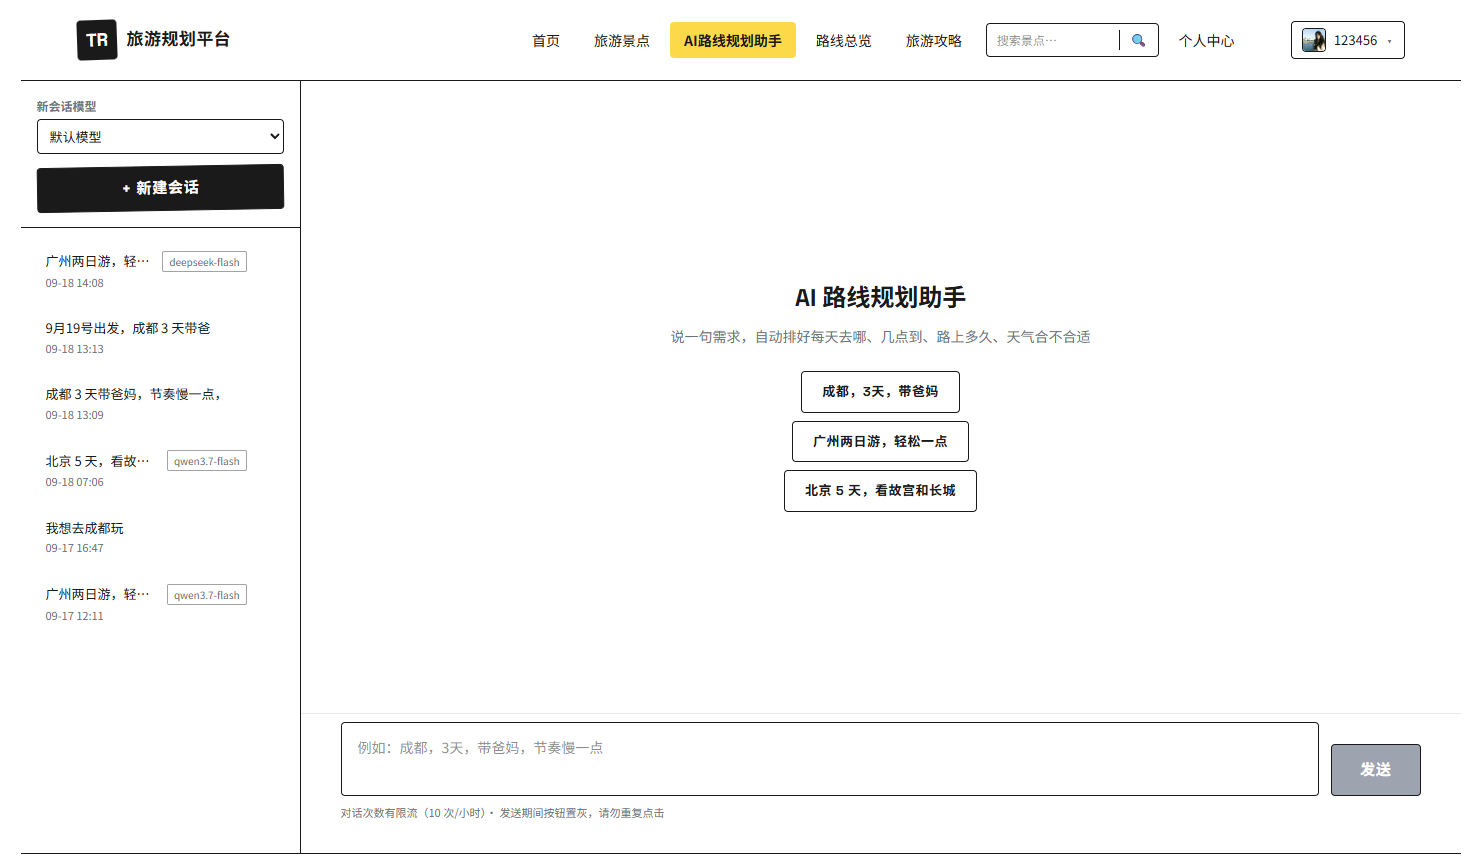
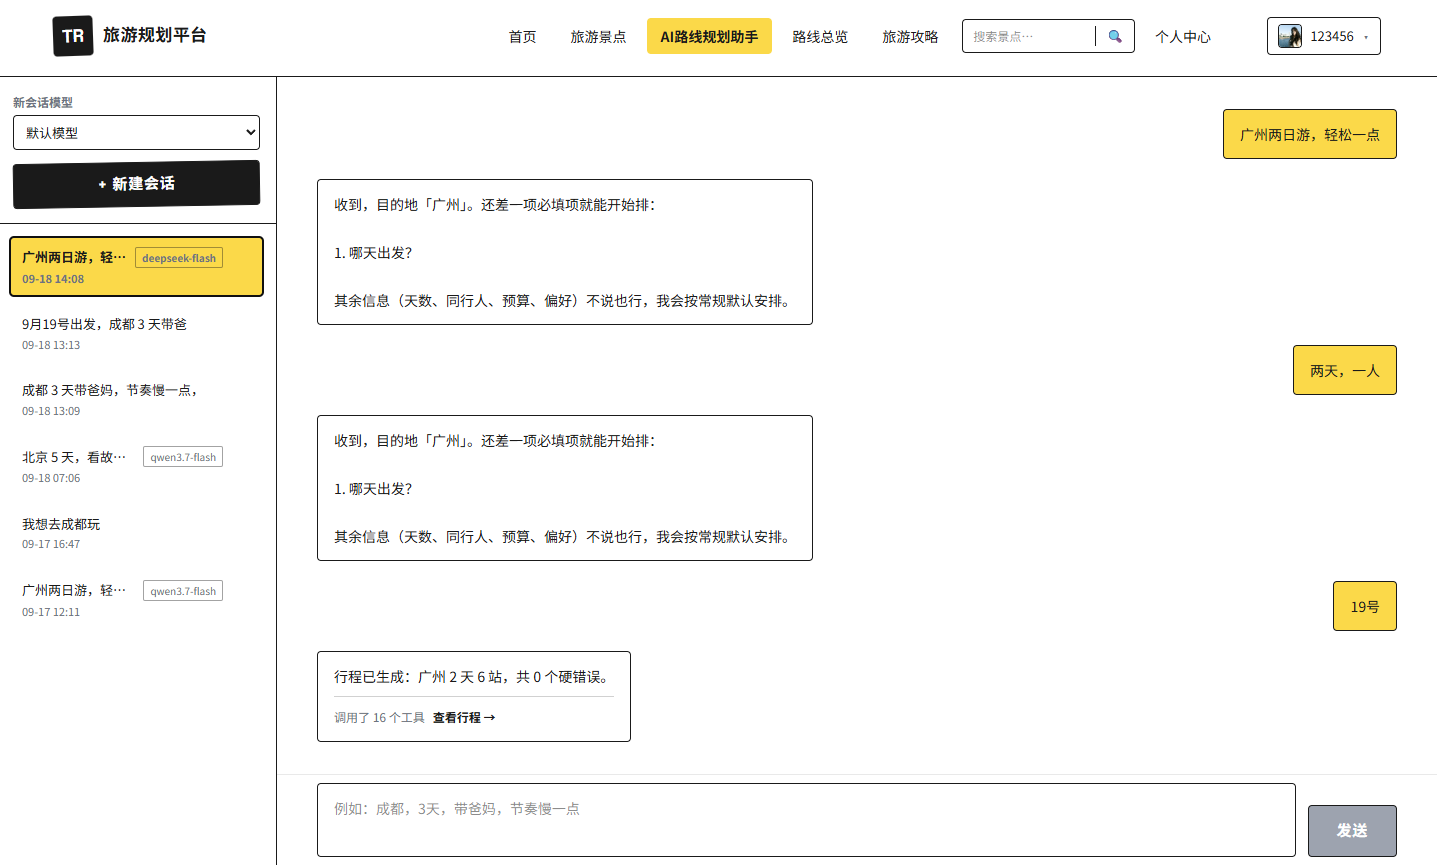
docs(readme): 助手页换为对话实况截图(追问缺信息->补一句->调16个工具生成)

diff --git a/README.md b/README.md
@@ -18,11 +18,12 @@ agent 引擎是唯一主线，CRUD 只做"能接回主线"的部分。
 |---|---|
 | ![行程总览](docs/screenshots/04-overview.png) | ![攻略社区](docs/screenshots/05-guides.png) |
 
-| 个人中心 · 规划记录 / 收藏 | AI 路线规划助手 · 流式对话 |
+| 个人中心 · 规划记录 / 收藏 | AI 路线规划助手 · 追问 → 生成 |
 |---|---|
 | ![个人中心](docs/screenshots/06-profile.png) | ![助手](docs/screenshots/03-assistant.png) |
 
-> 截图来自**真实运行**（real 档高德数据，2026-09-20）。景点页底部「共收录 100 个景点」= 10 城 × 10 条收录库实况。
+> 截图来自**真实运行**（real 档高德数据，2026-09-20）。景点页底部「共收录 100 个景点」= 10 城 × 10 条收录库实况；
+> 助手页可见核心行为：**缺必填信息先追问**（不硬编）→ 用户补一句 → 调 16 个工具生成行程。
 
 ---
 
